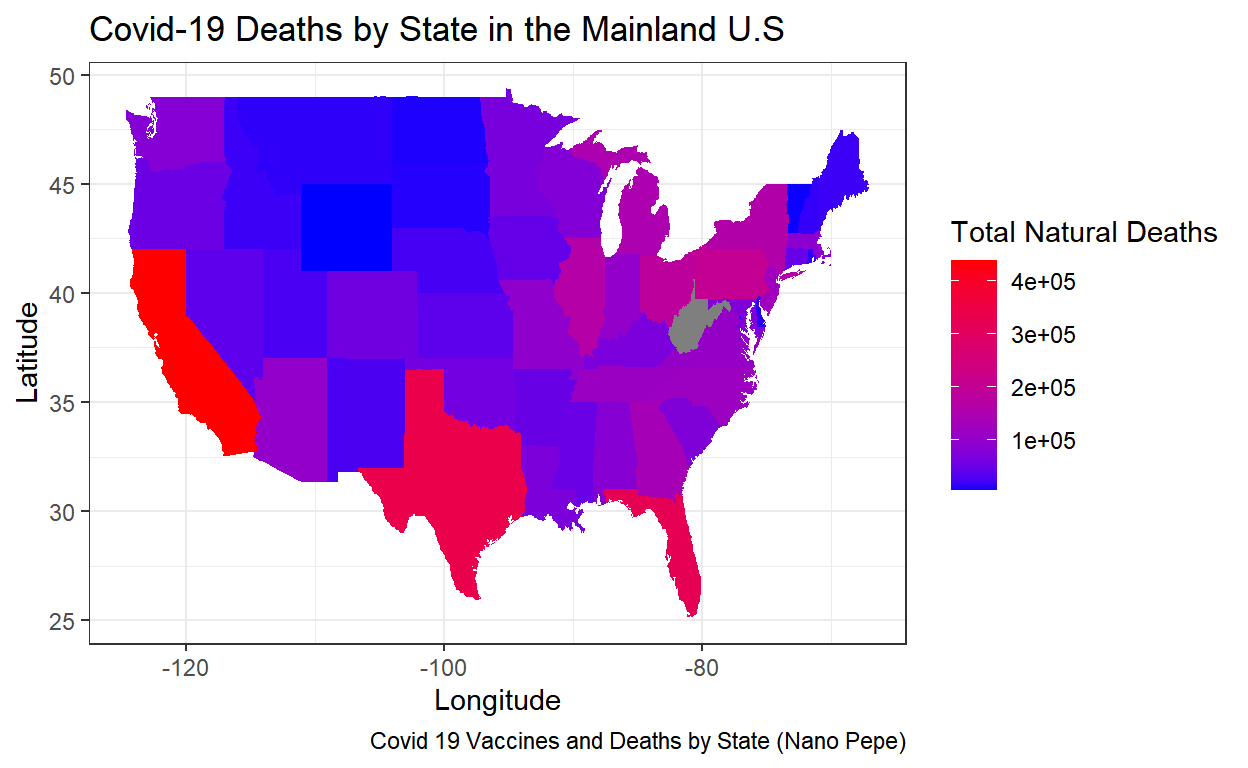
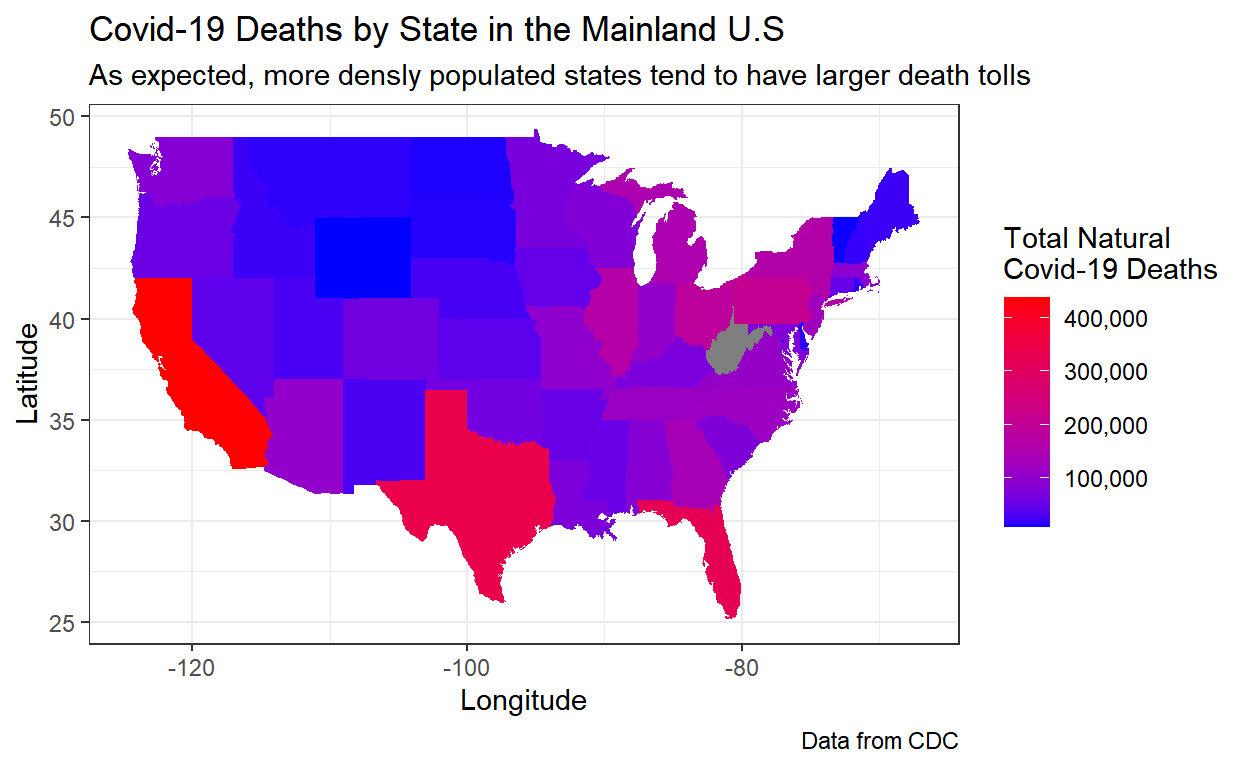
Finished Website

diff --git a/docs/about.html b/docs/about.html
@@ -88,27 +88,27 @@ code span.wa { color: #5e5e5e; font-style: italic; } /* Warning */
   <!--radix_placeholder_meta_tags-->
   <title>Covid-19 Deaths by US State: About this site</title>
 
-  <meta property="description" itemprop="description" content="Some additional details about the website"/>
+  <meta property="description" itemprop="description" content="Additional details about the myself and this project"/>
 
 
 
   <!--  https://developers.facebook.com/docs/sharing/webmasters#markup -->
   <meta property="og:title" content="Covid-19 Deaths by US State: About this site"/>
   <meta property="og:type" content="article"/>
-  <meta property="og:description" content="Some additional details about the website"/>
+  <meta property="og:description" content="Additional details about the myself and this project"/>
   <meta property="og:locale" content="en_US"/>
   <meta property="og:site_name" content="Covid-19 Deaths by US State"/>
 
   <!--  https://dev.twitter.com/cards/types/summary -->
   <meta property="twitter:card" content="summary"/>
   <meta property="twitter:title" content="Covid-19 Deaths by US State: About this site"/>
-  <meta property="twitter:description" content="Some additional details about the website"/>
+  <meta property="twitter:description" content="Additional details about the myself and this project"/>
 
   <!--/radix_placeholder_meta_tags-->
   <!--radix_placeholder_rmarkdown_metadata-->
 
   <script type="text/json" id="radix-rmarkdown-metadata">
-  {"type":"list","attributes":{"names":{"type":"character","attributes":{},"value":["title","description"]}},"value":[{"type":"character","attributes":{},"value":["About this site"]},{"type":"character","attributes":{},"value":["Some additional details about the website"]}]}
+  {"type":"list","attributes":{"names":{"type":"character","attributes":{},"value":["title","description"]}},"value":[{"type":"character","attributes":{},"value":["About this site"]},{"type":"character","attributes":{},"value":["Additional details about the myself and this project"]}]}
   </script>
   <!--/radix_placeholder_rmarkdown_metadata-->
   <!--radix_placeholder_navigation_in_header-->
@@ -2053,7 +2053,7 @@ code span.wa { color: #5e5e5e; font-style: italic; } /* Warning */
 <!--radix_placeholder_front_matter-->
 
 <script id="distill-front-matter" type="text/json">
-{"title":"About this site","description":"Some additional details about the website","authors":[]}
+{"title":"About this site","description":"Additional details about the myself and this project","authors":[]}
 </script>
 
 <!--/radix_placeholder_front_matter-->
@@ -2078,11 +2078,21 @@ code span.wa { color: #5e5e5e; font-style: italic; } /* Warning */
 <h1>About this site</h1>
 <!--radix_placeholder_categories-->
 <!--/radix_placeholder_categories-->
-<p><p>Some additional details about the website</p></p>
+<p><p>Additional details about the myself and this project</p></p>
 </div>
 
 
 <div class="d-article">
+<h2 id="about-me">About Me</h2>
+<p>Hi, my name is <a href="https://github.com/TejasMundhe">Tejas Mundhe</a> and I am an incoming freshman at Walnut Hills High School. I enjoy playing soccer and swimming as well as having a passion for computer science where I have coded in Javascript Python, and R.</p>
+<h2 id="about-this-project">About this Project</h2>
+<p>This project was made through <a href="https://bootcamp.davidkane.info">Kane’s Free High School Data Science Bootcamp</a> to explore how different states were affected by the Covid-19 Pandemic. The data set for this project was from a <a href="https://www.kaggle.com/nanopepe/covid-19-vaccines-and-deaths-by-state">Covid 19 Vaccines and Deaths by State Dataset</a> in which the data was gathered directly from the CDC.</p>
+<h2 id="goals">Goals</h2>
+<ul>
+<li>To Visualize the Covid-19 Deaths for every U.S state</li>
+<li>Learn about making plots and websites that are available on the internet</li>
+<li>Take my first steps into the world of data science</li>
+</ul>
 <div class="sourceCode" id="cb1"><pre class="sourceCode r distill-force-highlighting-css"><code class="sourceCode r"></code></pre></div>
 <!--radix_placeholder_article_footer-->
 <!--/radix_placeholder_article_footer-->

diff --git a/docs/index.html b/docs/index.html
@@ -2092,6 +2092,18 @@ code span.wa { color: #5e5e5e; font-style: italic; } /* Warning */
 <div class="layout-chunk" data-layout="l-body">
 <p><img src="index_files/figure-html5/map_data-1.png" width="624" /></p>
 </div>
+<div class="layout-chunk" data-layout="l-body">
+
+</div>
+<div class="layout-chunk" data-layout="l-body">
+<p><img src="index_files/figure-html5/map_data2-1.png" width="624" /></p>
+</div>
+<div class="layout-chunk" data-layout="l-body">
+
+</div>
+<div class="layout-chunk" data-layout="l-body">
+<p><img src="index_files/figure-html5/map_data3-1.png" width="624" /></p>
+</div>
 <div class="sourceCode" id="cb1"><pre class="sourceCode r distill-force-highlighting-css"><code class="sourceCode r"></code></pre></div>
 <!--radix_placeholder_article_footer-->
 <!--/radix_placeholder_article_footer-->
